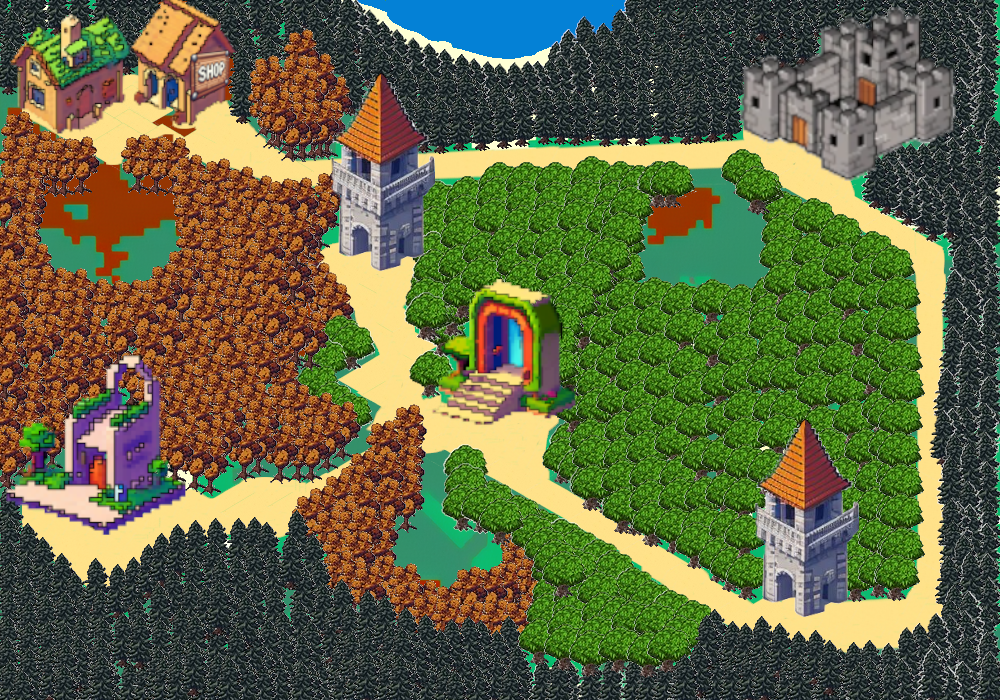
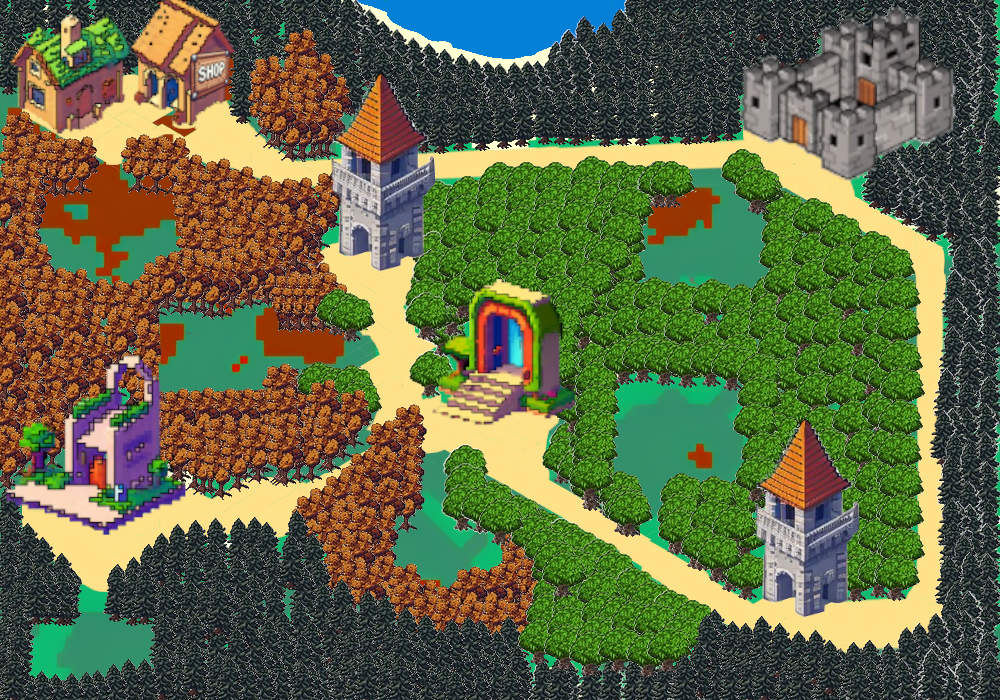
mehr spawn flächen

Changed region(s): [[0.124, 0.33, 0.403, 0.72], [0.558, 0.48, 0.806, 0.84], [0.0, 0.81, 0.186, 1.0]]

diff --git a/play.php b/play.php
@@ -370,7 +370,13 @@ if (!isset($_SESSION['charakter'])) {
                 { x1: 66, y1: 21, x2: 70, y2: 27, playerX: 71, playerY: 18 },
                 { x1: 71, y1: 21, x2: 75, y2: 27, playerX: 71, playerY: 18 },
                 { x1: 5, y1: 20, x2: 10, y2: 25, playerX: 11, playerY: 18 },
-                { x1: 11, y1: 20, x2: 16, y2: 25, playerX: 11, playerY: 18 }
+                { x1: 11, y1: 20, x2: 16, y2: 25, playerX: 11, playerY: 18 },
+                { x1: 17, y1: 32, x2: 21, y2: 38, playerX: 33, playerY: 35 },
+                { x1: 22, y1: 32, x2: 26, y2: 38, playerX: 33, playerY: 35 },
+                { x1: 4, y1: 63, x2: 9, y2: 67, playerX: 9, playerY: 59 },
+                { x1: 10, y1: 63, x2: 14, y2: 65, playerX: 9, playerY: 59 },
+                { x1: 63, y1: 39, x2: 67, y2: 46, playerX: 65, playerY: 52 },
+                { x1: 68, y1: 39, x2: 73, y2: 46, playerX: 65, playerY: 52 }
             ];
             
             function spawnEnemies() {
